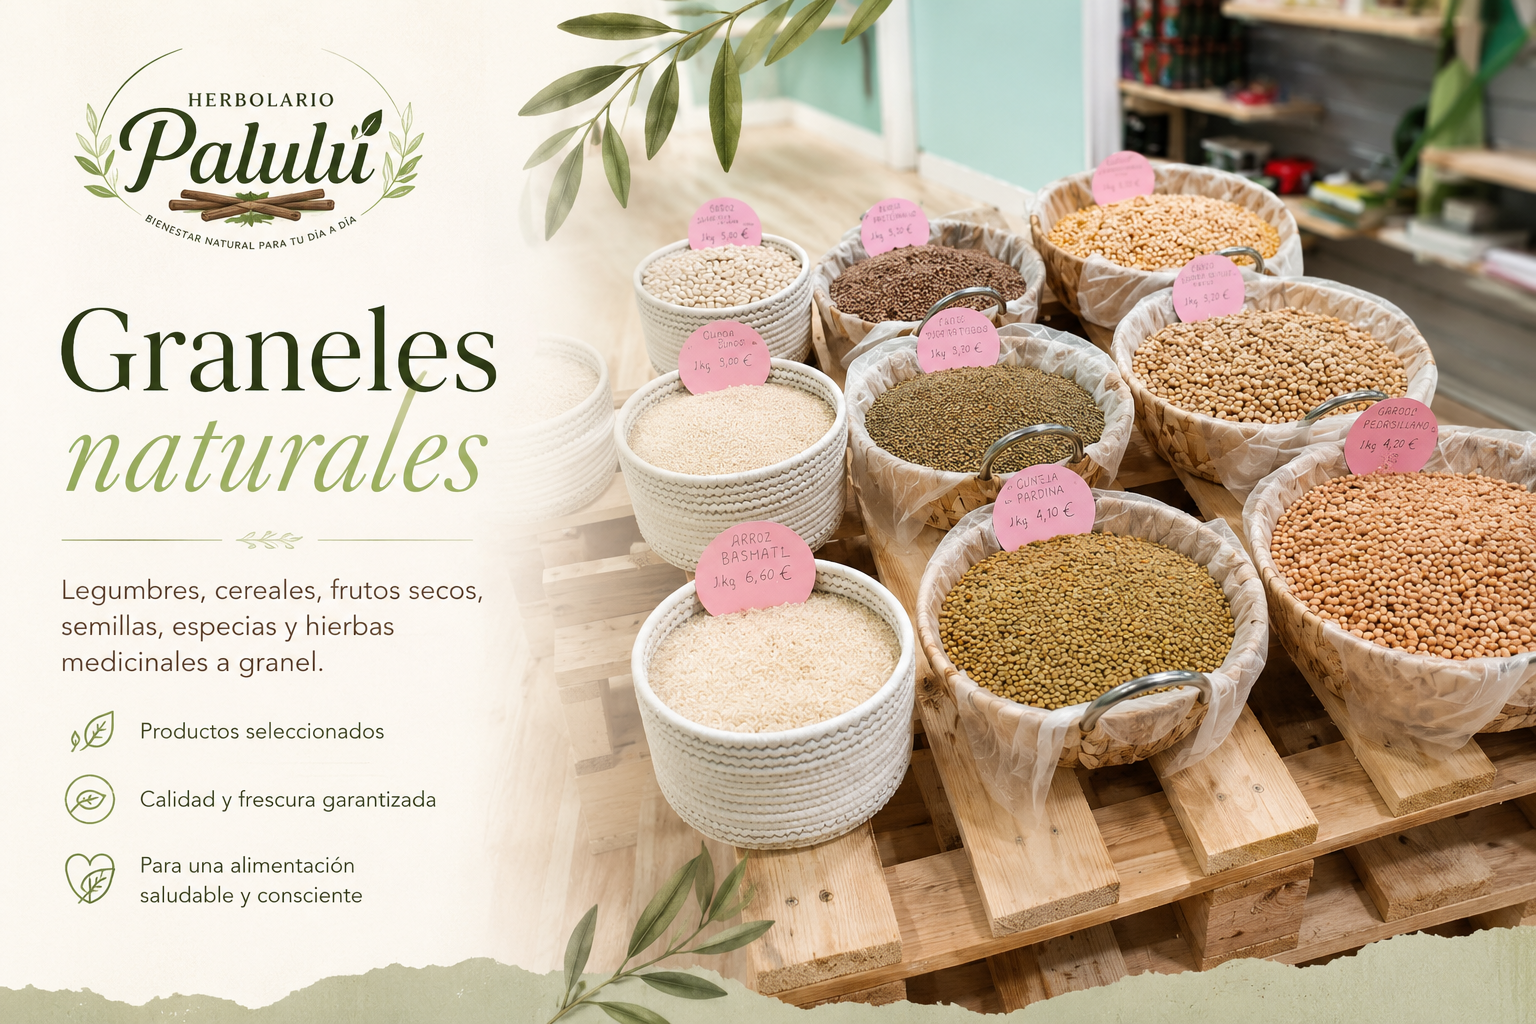
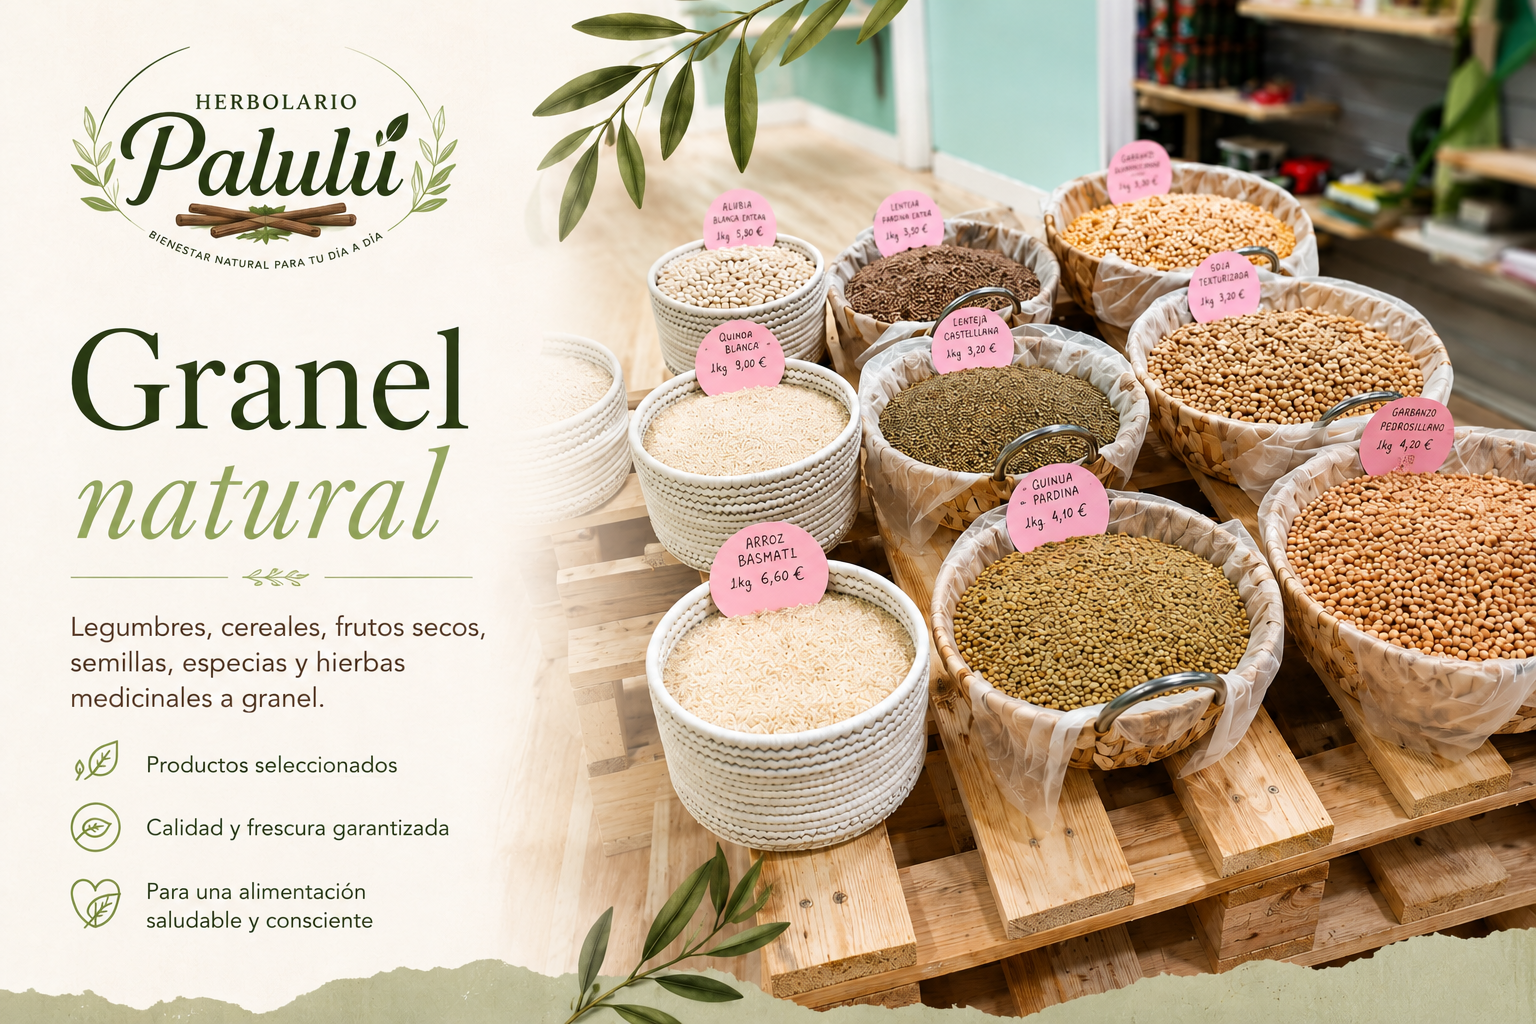
cambios solicitados 23/05/2026

diff --git a/index.html b/index.html
@@ -553,23 +553,6 @@ Disponemos de alimentación saludable, suplementos, cosmética natural y product
 
 <div class="productos-grid">
 
-
-<div class="producto-home-card">
-
-🌾
-
-<h3>
-Graneles naturales
-</h3>
-
-<p>
-Legumbres · Frutos secos · Deshidratados · Especias · Hierbas medicinales
-</p>
-
-</div>
-
-
-
 <div class="producto-home-card">
 
 💊
@@ -584,7 +567,19 @@ Nutricionales · Bienestar integral · Sistema inmune · Energía
 
 </div>
 
+<div class="producto-home-card">
 
+🧴
+
+<h3>
+Cosmética natural
+</h3>
+
+<p>
+Henna · Aceites esenciales · Cremas · Bálsamos · Extractos
+</p>
+
+</div>
 
 <div class="producto-home-card">
 
@@ -600,18 +595,16 @@ Plantas medicinales · Infusiones · Aromáticas · Condimentos naturales
 
 </div>
 
-
-
 <div class="producto-home-card">
 
-🧴
+🌾
 
 <h3>
-Cosmética natural
+Granel natural
 </h3>
 
 <p>
-Henna · Aceites esenciales · Cremas · Bálsamos · Extractos
+Legumbres · Frutos secos · Deshidratados · Especias · Hierbas medicinales
 </p>
 
 </div>

diff --git a/pages/productos.html b/pages/productos.html
@@ -109,7 +109,7 @@ alt="En construcción">
 
 <h1>
 
-Estamos preparando esta sección
+Productos seleccionados para tu bienestar integral
 
 </h1>
 
@@ -117,7 +117,7 @@ Estamos preparando esta sección
 
 <p>
 
-Muy pronto podrás consultar productos, suplementos y realizar pedidos online.
+En el Herbolario Palulú, no ofrecemos productos por marcas; te recomendamos suplementos integrales y servicios profesionales que acompañan tu proceso de sanación!
 
 </p>
 